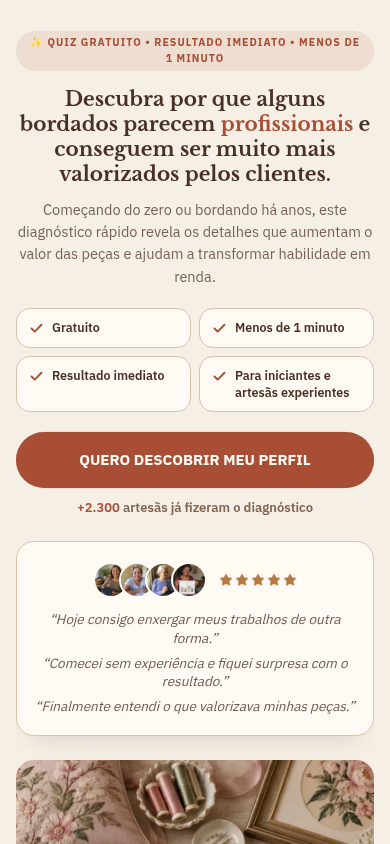
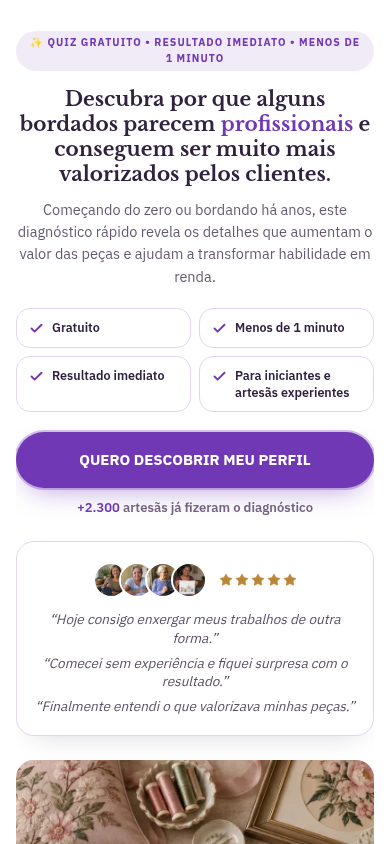
Apply purple and white palette and rename presenter to Angela Susuki

diff --git a/src/styles/palette.css b/src/styles/palette.css
@@ -1,67 +1,66 @@
-/* The only visual change: terracotta, beige and brown throughout the funnel. */
+/* Purple, white and lavender with plum text and soft gold accents. */
 :root {
-  --terracotta: #a84e35;
-  --terracotta-light: #c66d50;
-  --beige: #f6efe5;
-  --beige-card: #efe2d2;
-  --brown: #493024;
-  --brown-muted: #806451;
-  --cream: var(--beige);
-  --ink: var(--brown);
-  --pink: var(--terracotta);
-  --pink-foreground: #fffaf3;
-  --blush: #f0e1d3;
-  --mint: #e4cdb8;
-  --green: #79523a;
-  --green-foreground: #fffaf3;
-  --trust: #79523a;
-  --star: #b57a42;
-  --background: var(--beige);
-  --foreground: var(--brown);
-  --card: #fffaf3;
-  --card-foreground: var(--brown);
-  --primary: var(--terracotta);
-  --primary-foreground: #fffaf3;
-  --secondary: #79523a;
-  --secondary-foreground: #fffaf3;
-  --muted: #e9d9c7;
-  --muted-foreground: var(--brown-muted);
-  --accent: var(--terracotta);
-  --accent-foreground: #fffaf3;
-  --border: #dac2ac;
-  --input: #dac2ac;
-  --ring: var(--terracotta);
-  --quiz-bg: var(--beige);
-  --quiz-card: var(--beige-card);
-  --quiz-border: #dfc7b2;
-  --quiz-accent: var(--terracotta);
-  --quiz-text: var(--brown);
-  --quiz-muted: var(--brown-muted);
-  --quiz-chevron-border: #c68b6f;
-  --quiz-progress-bg: #e4ceba;
-  --quiz-accent-soft: #f0d9c8;
-  --quiz-success: #79523a;
-  --quiz-success-soft: #eddfcf;
-  --quiz-success-foreground: #fffaf3;
-  --quiz-guarantee: #ae7844;
-  --quiz-guarantee-soft: #f0e1ca;
-  --quiz-star: #b57a42;
-  --quiz-surface: #fffaf3;
-  --quiz-blue: #79523a;
-  --quiz-blue-soft: #ebd8c5;
-  --quiz-blue-foreground: #fffaf3;
+  --purple: #7138b5;
+  --purple-deep: #54248d;
+  --lavender: #f5f0fc;
+  --plum: #30213f;
+  --plum-muted: #756183;
+  --cream: #ffffff;
+  --ink: var(--plum);
+  --pink: var(--purple);
+  --pink-foreground: #ffffff;
+  --blush: var(--lavender);
+  --mint: #e9ddf7;
+  --green: var(--purple-deep);
+  --green-foreground: #ffffff;
+  --trust: #6355a6;
+  --star: #ba8738;
+  --background: #ffffff;
+  --foreground: var(--plum);
+  --card: #ffffff;
+  --card-foreground: var(--plum);
+  --primary: var(--purple);
+  --primary-foreground: #ffffff;
+  --secondary: var(--purple-deep);
+  --secondary-foreground: #ffffff;
+  --muted: #f0e9f8;
+  --muted-foreground: var(--plum-muted);
+  --accent: var(--purple);
+  --accent-foreground: #ffffff;
+  --border: #e3d5f0;
+  --input: #e3d5f0;
+  --ring: var(--purple);
+  --quiz-bg: #ffffff;
+  --quiz-card: var(--lavender);
+  --quiz-border: #e0ceef;
+  --quiz-accent: var(--purple);
+  --quiz-text: var(--plum);
+  --quiz-muted: var(--plum-muted);
+  --quiz-chevron-border: #b68ad8;
+  --quiz-progress-bg: #ede3f7;
+  --quiz-accent-soft: #efe2fc;
+  --quiz-success: var(--purple-deep);
+  --quiz-success-soft: #f0e7fa;
+  --quiz-success-foreground: #ffffff;
+  --quiz-guarantee: #ac8447;
+  --quiz-guarantee-soft: #fff9ee;
+  --quiz-star: #ba8738;
+  --quiz-surface: #ffffff;
+  --quiz-blue: #6355a6;
+  --quiz-blue-soft: #f0edfc;
+  --quiz-blue-foreground: #ffffff;
 }
 .loading {
   min-height: 100vh;
   display: grid;
   place-content: center;
   gap: 1rem;
-  background: var(--beige);
-  color: var(--brown);
+  background: var(--background);
+  color: var(--plum);
 }
 /* Visible keyboard focus keeps the reference's layout unchanged. */
 button:focus-visible,
 a:focus-visible {
-  outline: 2px solid var(--terracotta);
+  outline: 2px solid var(--purple);
   outline-offset: 4px;
 }

diff --git a/tests/quiz.spec.js b/tests/quiz.spec.js
@@ -12,7 +12,11 @@ const normalize = (text) =>
 async function matchesReference(page, index) {
   await expect
     .poll(async () => normalize(await page.locator("main").innerText()))
-    .toBe(normalize(reference[index].text));
+    .toBe(
+      normalize(
+        reference[index].text.replaceAll("Pamela Santos", "Angela Susuki"),
+      ),
+    );
 }
 async function choose(page, step, option = 0) {
   await expect(page.getByRole("heading", { level: 1 })).toHaveText(
@@ -206,13 +210,13 @@ test("all public pages load locally, images resolve and palette is applied", asy
     expect(
       await page.evaluate(() =>
         getComputedStyle(document.documentElement)
-          .getPropertyValue("--terracotta")
+          .getPropertyValue("--purple")
           .trim(),
       ),
-    ).toBe("#a84e35");
+    ).toBe("#7138b5");
     await expect(page.locator("main")).toHaveCSS(
       "background-color",
-      "rgb(246, 239, 229)",
+      "rgb(255, 255, 255)",
     );
     if (route === "/obrigado")
       await expect(page.getByRole("heading", { level: 1 })).toHaveText(

diff --git a/src/pages/Plan.jsx b/src/pages/Plan.jsx
@@ -620,7 +620,7 @@ function PlanContent() {
       <section className={`text-center`}>
         <img
           src={authorImage.url}
-          alt={`Pamela Santos segurando o guia Vivendo de Bordado Chinês`}
+          alt={`Angela Susuki segurando o guia Vivendo de Bordado Chinês`}
           width={1024}
           height={1536}
           loading={`lazy`}
@@ -628,7 +628,7 @@ function PlanContent() {
         />
         <h2
           className={`${headingStyle} mt-5 text-[26px] font-bold`}
-        >{`Prazer, Pamela Santos`}</h2>
+        >{`Prazer, Angela Susuki`}</h2>
         <p
           className={`${bodyStyle} mt-3 text-[16px] italic leading-[1.7]`}
         >{`"Descobri no bordado uma forma de transformar momentos simples em algo produtivo e prazeroso. Hoje compartilho esse conhecimento através deste guia ilustrado para ajudar outras mulheres a aprender uma habilidade artesanal e criar uma possível fonte de renda extra."`}</p>

diff --git a/index.html b/index.html
@@ -3,7 +3,7 @@
   <head>
     <meta charset="UTF-8" />
     <meta name="viewport" content="width=device-width, initial-scale=1.0" />
-    <meta name="theme-color" content="#a84e35" />
+    <meta name="theme-color" content="#7138b5" />
     <meta
       name="description"
       content="Aprenda bordado chinês do zero com um guia ilustrado impresso, moldes prontos e projetos para criar peças e uma possível renda extra."

diff --git a/README.md b/README.md
@@ -1,6 +1,6 @@
 # Bordado Chinês — quiz
 
-Recriação do fluxo público de https://tecnicamilenardebordado.lovable.app/?angulo=neutro, inspecionado em 6 de outubro de 2026. Textos, imagens, opções, ordem das etapas, carrosséis, preços e destino de compra seguem a referência. A paleta foi alterada para terracota, bege e marrom.
+Recriação do fluxo público de https://tecnicamilenardebordado.lovable.app/?angulo=neutro, inspecionado em 6 de outubro de 2026. Textos, imagens, opções, ordem das etapas, carrosséis, preços e destino de compra seguem a referência. A paleta foi alterada para roxo, branco e lavanda, com detalhes dourados. O nome da apresentadora foi atualizado para Angela Susuki.
 
 ## Executar
 
@@ -39,7 +39,7 @@ As respostas e a etapa atual são guardadas na sessão do navegador. É possíve
 
 ## Alterar cores e conteúdo
 
-- `src/styles/palette.css`: paleta centralizada; terracota `#a84e35`, bege `#f6efe5` e marrom `#493024`.
+- `src/styles/palette.css`: paleta centralizada; roxo `#7138b5`, branco `#ffffff` e lavanda `#f5f0fc`, com texto ameixa `#30213f`.
 - `src/data/questions.js`: todas as perguntas e opções.
 - `src/pages/`: componentes React editáveis de cada página.
 - `src/styles/reference.css`: estilos de layout da referência, preservados para manter as proporções.
